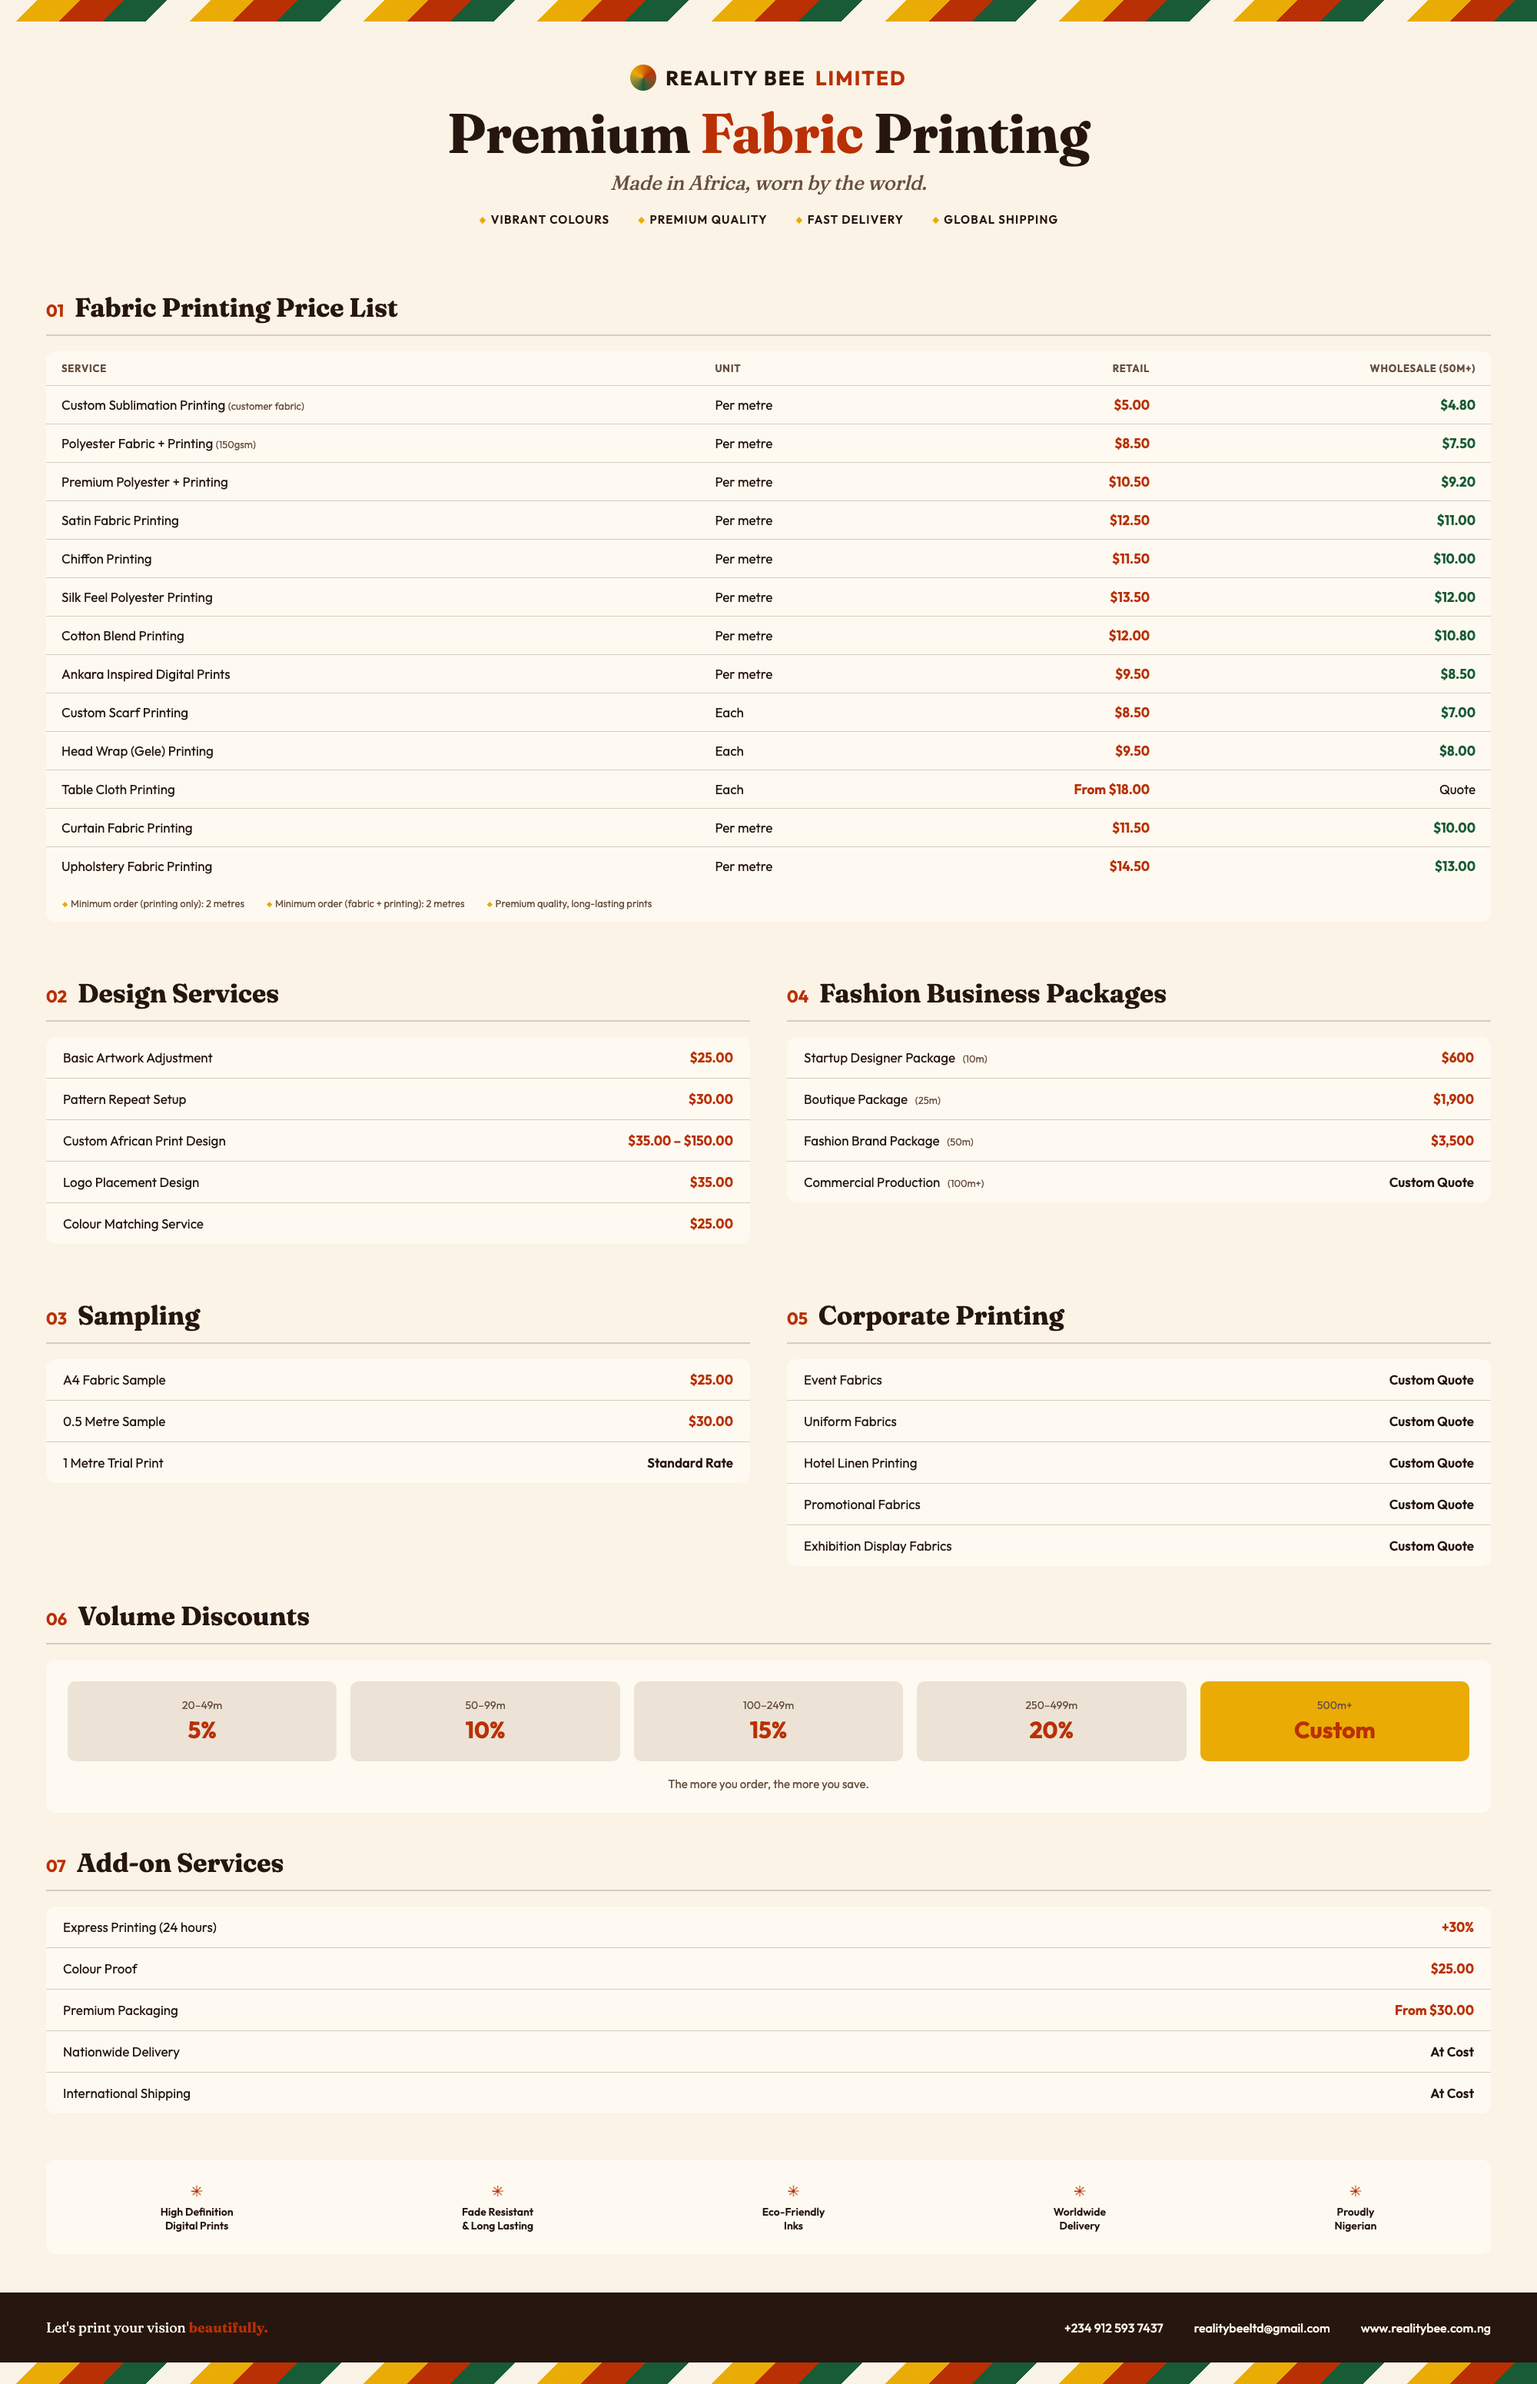
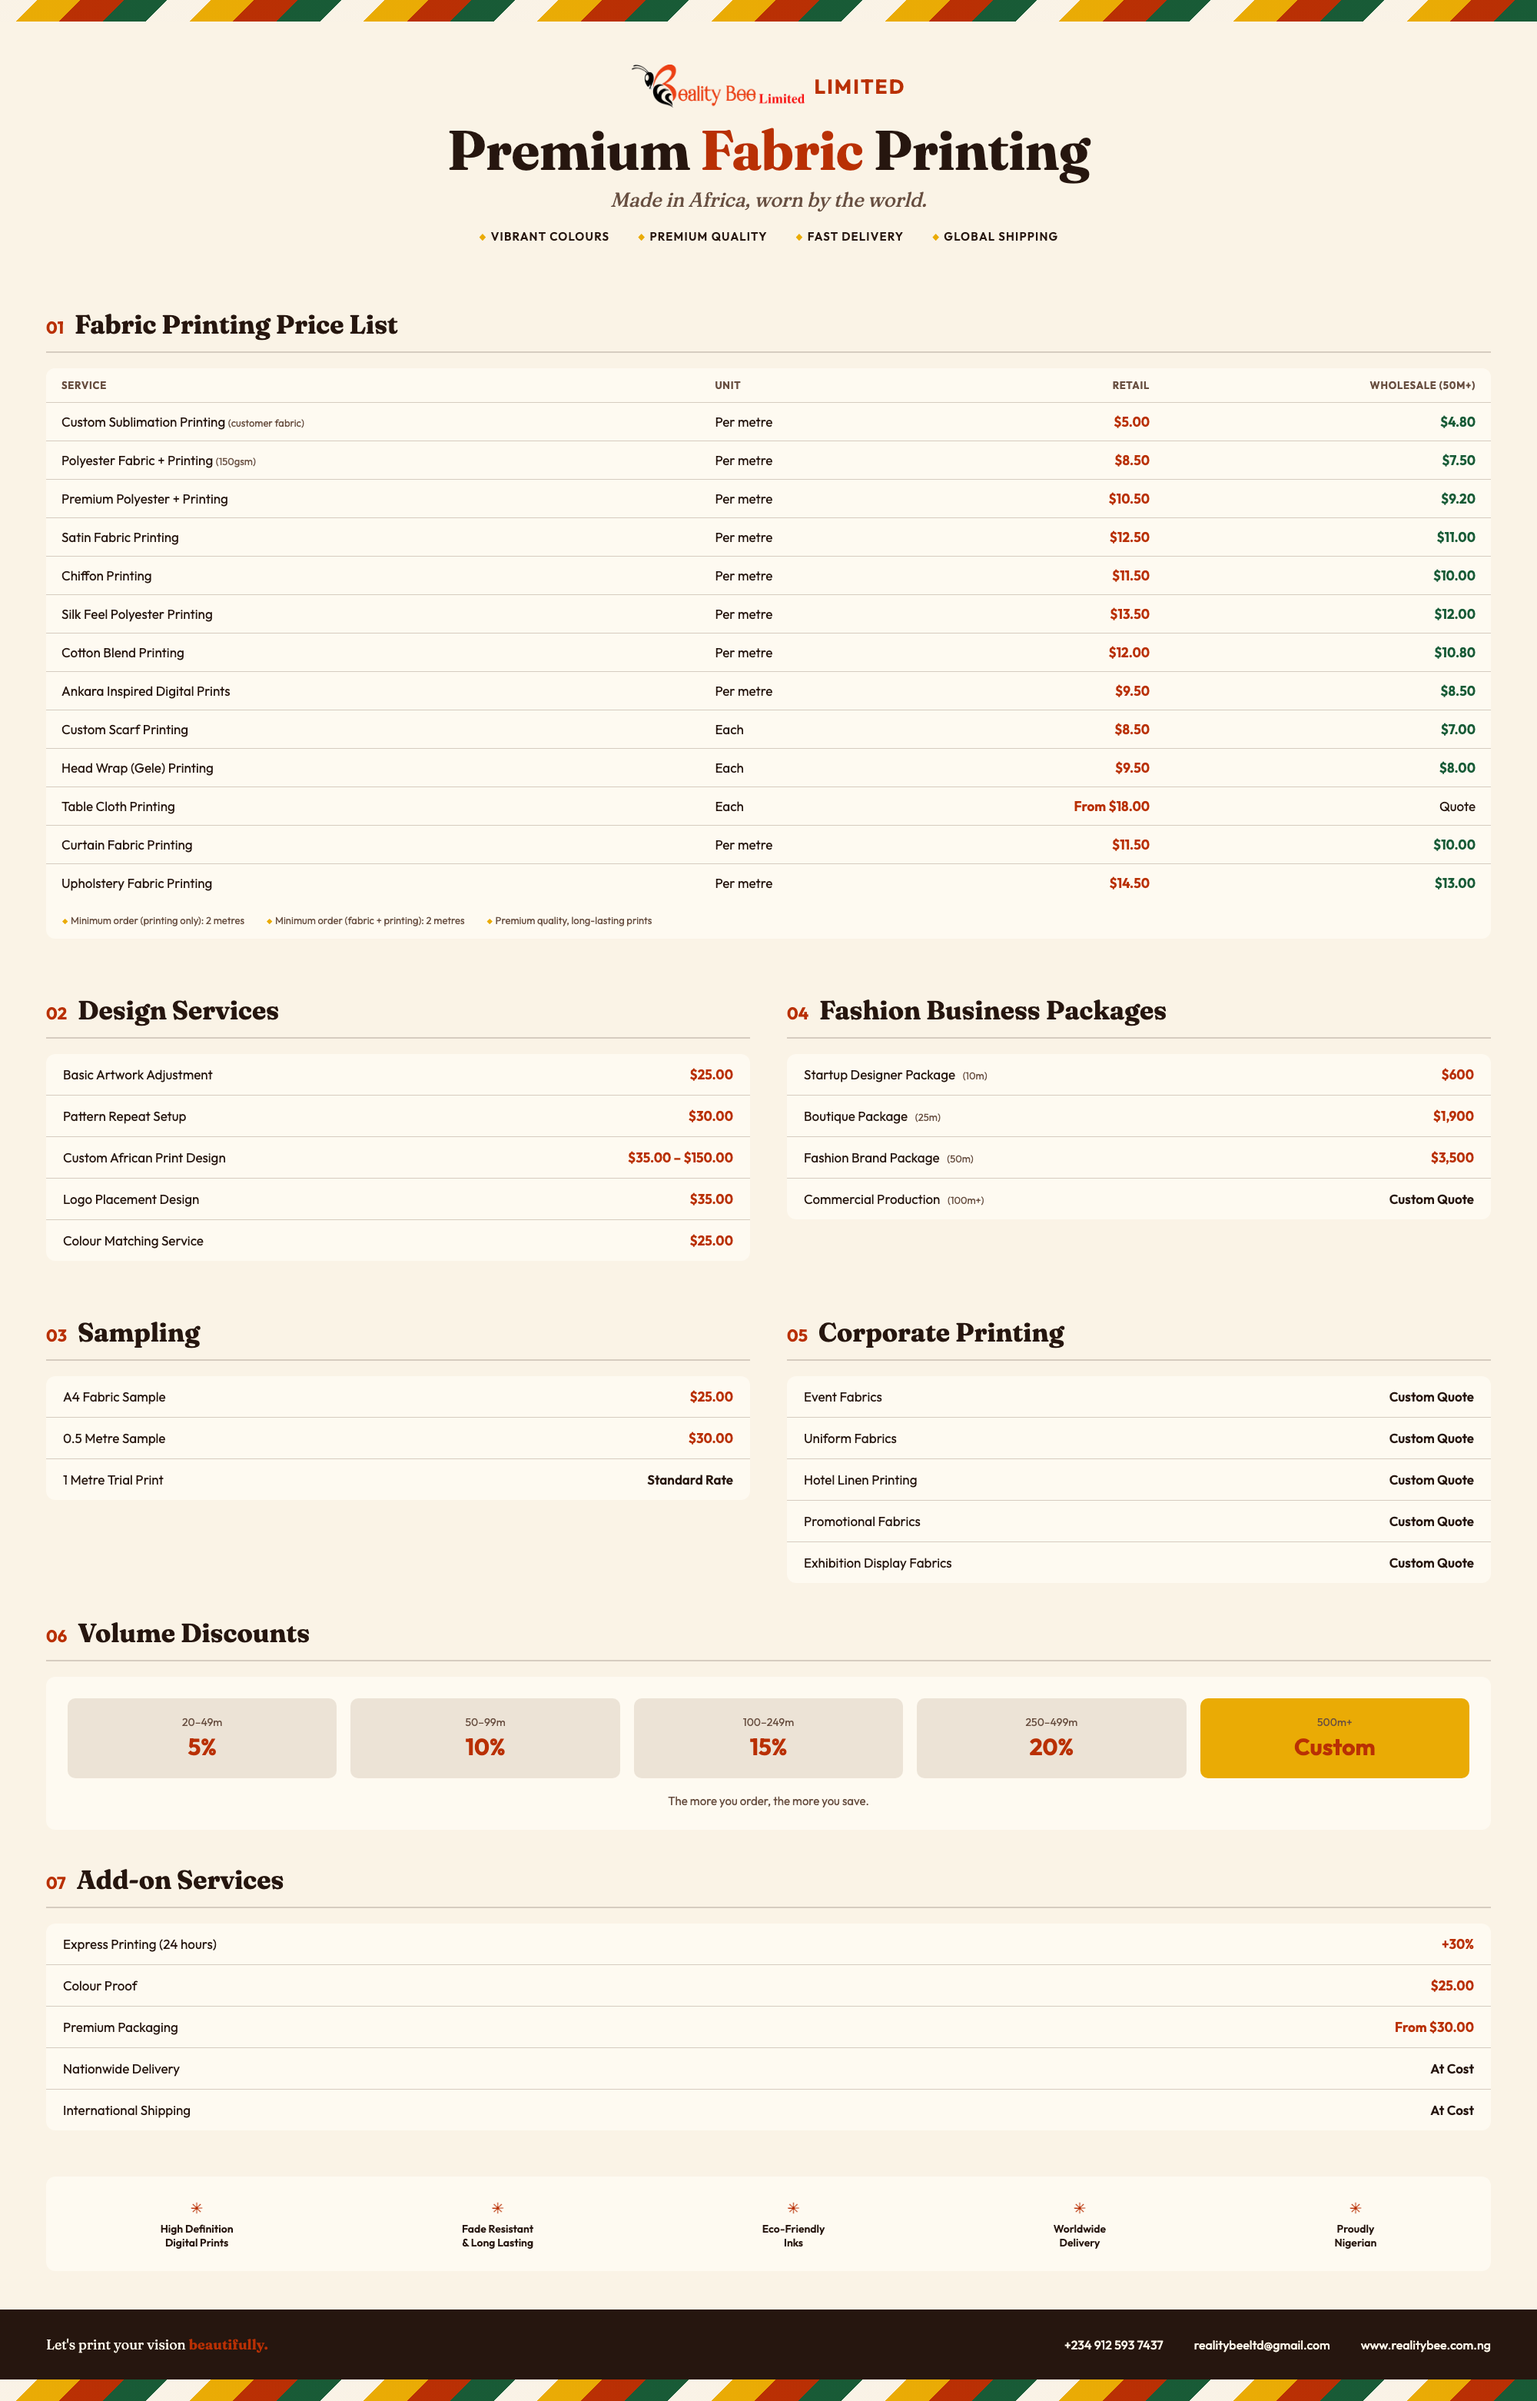
Update UI

diff --git a/src/components/site-header.tsx b/src/components/site-header.tsx
@@ -1,7 +1,7 @@
 import { Link } from "@tanstack/react-router";
 import { ShoppingBag } from "lucide-react";
 import { useCart, cartCount } from "@/lib/cart";
-import logo from "@/assets/reality-bee-logo-header.png.asset.json";
+import logo from "@/assets/reality-bee-logo.png.asset.json";
 
 export function SiteHeader() {
   const items = useCart((s) => s.items);
